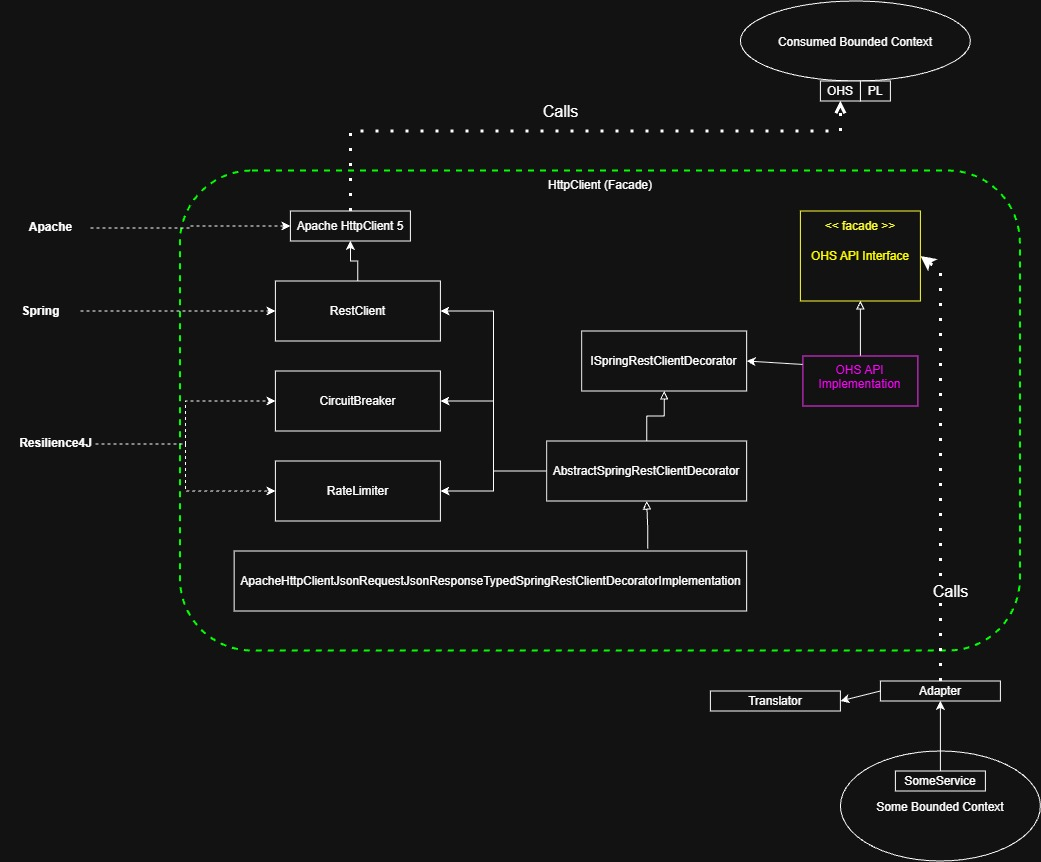
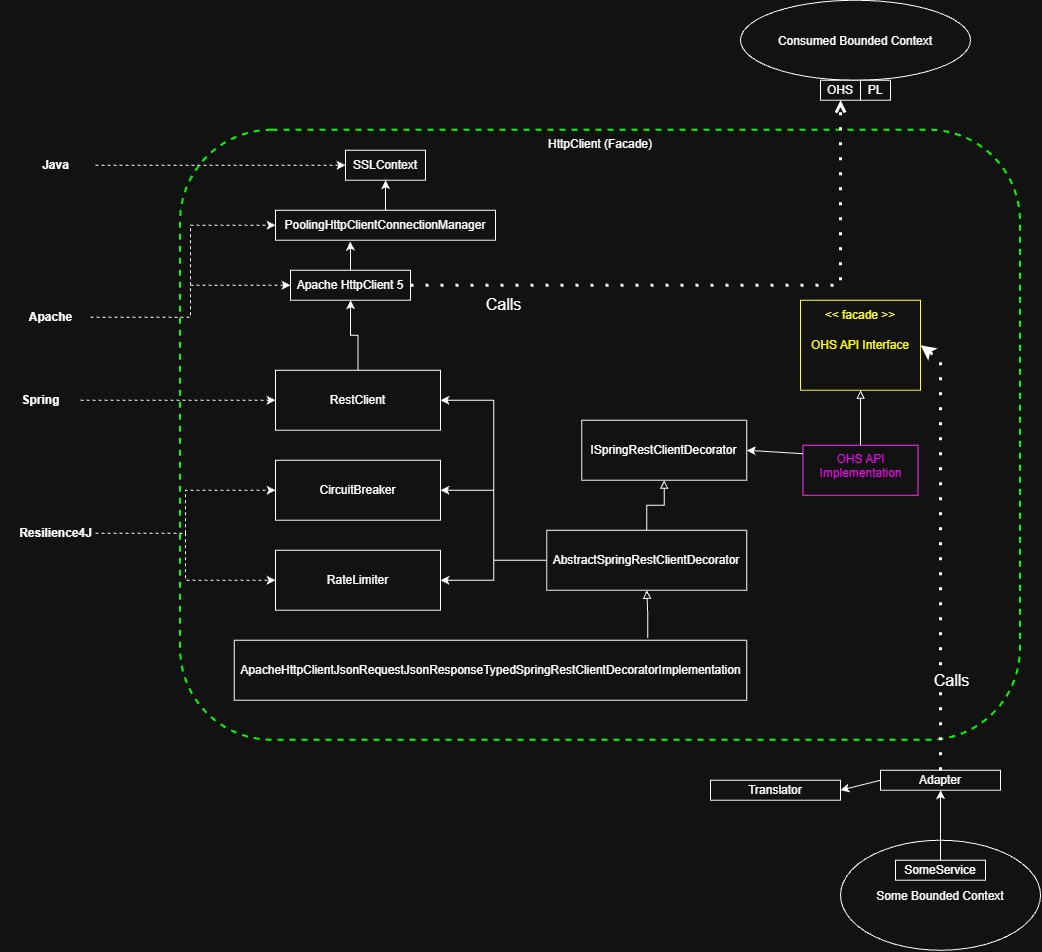
Work in progress

diff --git a/components/http-client/code/spring-boot-web-application/src/main/java/nl/andreschepers/webapplicationsoftwarecomponents/springbootwebapplication/httpclient/springrestclientdecorator/AbstractSpringRestClientDecorator.java b/components/http-client/code/spring-boot-web-application/src/main/java/nl/andreschepers/webapplicationsoftwarecomponents/springbootwebapplication/httpclient/springrestclientdecorator/AbstractSpringRestClientDecorator.java
@@ -19,8 +19,10 @@ package nl.andreschepers.webapplicationsoftwarecomponents.springbootwebapplicati
 import io.github.resilience4j.circuitbreaker.CircuitBreaker;
 import io.github.resilience4j.ratelimiter.RateLimiter;
 import java.net.URI;
+import java.util.function.Consumer;
 import java.util.function.Function;
 import java.util.function.Supplier;
+import org.springframework.http.HttpHeaders;
 import org.springframework.http.HttpStatusCode;
 import org.springframework.http.MediaType;
 import org.springframework.http.ResponseEntity;
@@ -50,6 +52,7 @@ public abstract class AbstractSpringRestClientDecorator implements ISpringRestCl
   @Override
   public <T> ResponseEntity<T> makeGetRequest(
       URI uri,
+      Consumer<HttpHeaders> headersConsumer,
       Class<T> responseType,
       RestClient.ResponseSpec.ErrorHandler errorHandler4XX,
       RestClient.ResponseSpec.ErrorHandler errorHandler5XX) {
@@ -58,6 +61,7 @@ public abstract class AbstractSpringRestClientDecorator implements ISpringRestCl
             restClient
                 .get()
                 .uri(uri)
+                .headers(headersConsumer)
                 .accept(responseMediaType)
                 .retrieve()
                 .onStatus(HttpStatusCode::is4xxClientError, errorHandler4XX)
@@ -68,6 +72,7 @@ public abstract class AbstractSpringRestClientDecorator implements ISpringRestCl
   @Override
   public <T, R> ResponseEntity<T> makePostRequest(
       URI uri,
+      Consumer<HttpHeaders> headersConsumer,
       R body,
       Class<T> responseType,
       RestClient.ResponseSpec.ErrorHandler errorHandler4XX,
@@ -77,6 +82,7 @@ public abstract class AbstractSpringRestClientDecorator implements ISpringRestCl
             restClient
                 .post()
                 .uri(uri)
+                .headers(headersConsumer)
                 .contentType(requestMediaType)
                 .body(requestBody)
                 .accept(responseMediaType)
@@ -90,6 +96,7 @@ public abstract class AbstractSpringRestClientDecorator implements ISpringRestCl
   @Override
   public <T, R> ResponseEntity<T> makePutRequest(
       URI uri,
+      Consumer<HttpHeaders> headersConsumer,
       R body,
       Class<T> responseType,
       RestClient.ResponseSpec.ErrorHandler errorHandler4XX,
@@ -99,6 +106,7 @@ public abstract class AbstractSpringRestClientDecorator implements ISpringRestCl
             restClient
                 .put()
                 .uri(uri)
+                .headers(headersConsumer)
                 .contentType(requestMediaType)
                 .body(requestBody)
                 .accept(responseMediaType)

diff --git a/components/http-client/code/spring-boot-web-application/src/main/java/nl/andreschepers/webapplicationsoftwarecomponents/springbootwebapplication/httpclient/factory/SpringRestClientFactory.java b/components/http-client/code/spring-boot-web-application/src/main/java/nl/andreschepers/webapplicationsoftwarecomponents/springbootwebapplication/httpclient/factory/SpringRestClientFactory.java
@@ -27,7 +27,6 @@ import org.apache.hc.client5.http.ssl.*;
 import org.apache.hc.core5.pool.PoolConcurrencyPolicy;
 import org.apache.hc.core5.pool.PoolReusePolicy;
 import org.apache.hc.core5.util.Timeout;
-import org.springframework.http.client.BufferingClientHttpRequestFactory;
 import org.springframework.http.client.HttpComponentsClientHttpRequestFactory;
 import org.springframework.web.client.RestClient;
 
@@ -74,12 +73,16 @@ public final class SpringRestClientFactory {
             .build();
 
     var factory = new HttpComponentsClientHttpRequestFactory(client);
-    var bufferedFactory = new BufferingClientHttpRequestFactory(factory);
-    var restClient = RestClient.builder().requestFactory(bufferedFactory).build();
+    var restClientBuilder = RestClient.builder();
+    if (configuration.bufferRequestResponse) {
+      restClientBuilder.bufferContent((_, _) -> true);
+    }
+    var restClient = restClientBuilder.requestFactory(factory).build();
     return new HttpClientAndApachePoolingConnManagerDto(restClient, manager);
   }
 
   public record ConfigurationDto(
+      boolean bufferRequestResponse,
       int connectionTimeoutMs,
       int socketTimeoutMs,
       int connectionRequestTimeoutMs,
@@ -101,6 +104,7 @@ public final class SpringRestClientFactory {
         SSLContext sslContext,
         TLSVersion... tlsVersion) {
       this(
+          true,
           connectionTimeoutMs,
           socketTimeoutMs,
           connectionRequestTimeoutMs,

diff --git a/components/http-client/code/spring-boot-web-application/src/main/java/nl/andreschepers/webapplicationsoftwarecomponents/springbootwebapplication/httpclient/springrestclientdecorator/ApacheHttpClientJsonRequestJsonResponseTypedSpringRestClientDecoratorImplementation.java b/components/http-client/code/spring-boot-web-application/src/main/java/nl/andreschepers/webapplicationsoftwarecomponents/springbootwebapplication/httpclient/springrestclientdecorator/ApacheHttpClientJsonRequestJsonResponseTypedSpringRestClientDecoratorImplementation.java
@@ -19,7 +19,6 @@ package nl.andreschepers.webapplicationsoftwarecomponents.springbootwebapplicati
 import io.github.resilience4j.circuitbreaker.CircuitBreaker;
 import io.github.resilience4j.ratelimiter.RateLimiter;
 import lombok.Getter;
-import org.apache.hc.client5.http.impl.io.PoolingHttpClientConnectionManager;
 import org.springframework.http.MediaType;
 import org.springframework.web.client.RestClient;
 
@@ -27,19 +26,13 @@ import org.springframework.web.client.RestClient;
 public class ApacheHttpClientJsonRequestJsonResponseTypedSpringRestClientDecoratorImplementation
     extends AbstractSpringRestClientDecorator {
 
-  private final PoolingHttpClientConnectionManager poolingHttpClientConnectionManager;
-
   public ApacheHttpClientJsonRequestJsonResponseTypedSpringRestClientDecoratorImplementation(
-      RestClient restClient,
-      PoolingHttpClientConnectionManager poolingHttpClientConnectionManager,
-      CircuitBreaker circuitBreaker,
-      RateLimiter rateLimiter) {
+      RestClient restClient, CircuitBreaker circuitBreaker, RateLimiter rateLimiter) {
     super(
         restClient,
         circuitBreaker,
         rateLimiter,
         MediaType.APPLICATION_JSON,
         MediaType.APPLICATION_JSON);
-    this.poolingHttpClientConnectionManager = poolingHttpClientConnectionManager;
   }
 }

diff --git a/components/http-client/code/spring-boot-web-application/src/main/java/nl/andreschepers/webapplicationsoftwarecomponents/springbootwebapplication/httpclient/springrestclientdecorator/ISpringRestClientDecorator.java b/components/http-client/code/spring-boot-web-application/src/main/java/nl/andreschepers/webapplicationsoftwarecomponents/springbootwebapplication/httpclient/springrestclientdecorator/ISpringRestClientDecorator.java
@@ -17,6 +17,8 @@
 package nl.andreschepers.webapplicationsoftwarecomponents.springbootwebapplication.httpclient.springrestclientdecorator;
 
 import java.net.URI;
+import java.util.function.Consumer;
+import org.springframework.http.HttpHeaders;
 import org.springframework.http.ResponseEntity;
 import org.springframework.web.client.RestClient;
 
@@ -24,12 +26,14 @@ public interface ISpringRestClientDecorator {
 
   <T> ResponseEntity<T> makeGetRequest(
       URI uri,
+      Consumer<HttpHeaders> headersConsumer,
       Class<T> responseType,
       RestClient.ResponseSpec.ErrorHandler errorHandler4XX,
       RestClient.ResponseSpec.ErrorHandler errorHandler5XX);
 
   <T, R> ResponseEntity<T> makePostRequest(
       URI uri,
+      Consumer<HttpHeaders> headersConsumer,
       R body,
       Class<T> responseType,
       RestClient.ResponseSpec.ErrorHandler errorHandler4XX,
@@ -37,6 +41,7 @@ public interface ISpringRestClientDecorator {
 
   <T, R> ResponseEntity<T> makePutRequest(
       URI uri,
+      Consumer<HttpHeaders> headersConsumer,
       R body,
       Class<T> responseType,
       RestClient.ResponseSpec.ErrorHandler errorHandler4XX,

diff --git a/components/http-client/code/spring-boot-web-application/src/main/java/nl/andreschepers/webapplicationsoftwarecomponents/springbootwebapplication/ExampleConfiguration.java b/components/http-client/code/spring-boot-web-application/src/main/java/nl/andreschepers/webapplicationsoftwarecomponents/springbootwebapplication/ExampleConfiguration.java
@@ -42,6 +42,7 @@ public class ExampleConfiguration {
    */
   @Bean("send-email-http-client")
   public ISpringRestClientDecorator apacheHttpClient() {
+
     var clientManagerPairDto = createRestClientPoolManagerPair();
 
     OTLPApachePoolMetrics.configureOTLPApachePoolMetrics(
@@ -49,7 +50,6 @@ public class ExampleConfiguration {
 
     return new ApacheHttpClientJsonRequestJsonResponseTypedSpringRestClientDecoratorImplementation(
         clientManagerPairDto.restClient(),
-        clientManagerPairDto.manager(),
         CircuitBreaker.of("Circuit breakertje", CircuitBreakerConfig.ofDefaults()),
         RateLimiter.of("RateLimiter breakertje", RateLimiterConfig.ofDefaults()));
   }

diff --git a/components/http-client/README.md b/components/http-client/README.md
@@ -25,6 +25,8 @@ To illustrate this:
 
 ![Concrete http client full diagram](./HTTP%20client%20diagrams-Page-http-client-facade-concrete.jpg)
 
+### Structure (class diagram)
+
 ## Creation
 
 The target architecture, or better said, structure is clear now. But how to get
@@ -34,6 +36,10 @@ and how?
 The [Gang of Four](https://en.wikipedia.org/wiki/Design_Patterns) (GoF)
 again to the
 rescue: [The Factory pattern](https://en.wikipedia.org/wiki/Factory_method_pattern).
+
+### Structure (class diagram)
+
+### Behavior (functionality)
 
 ```mermaid
 sequenceDiagram
